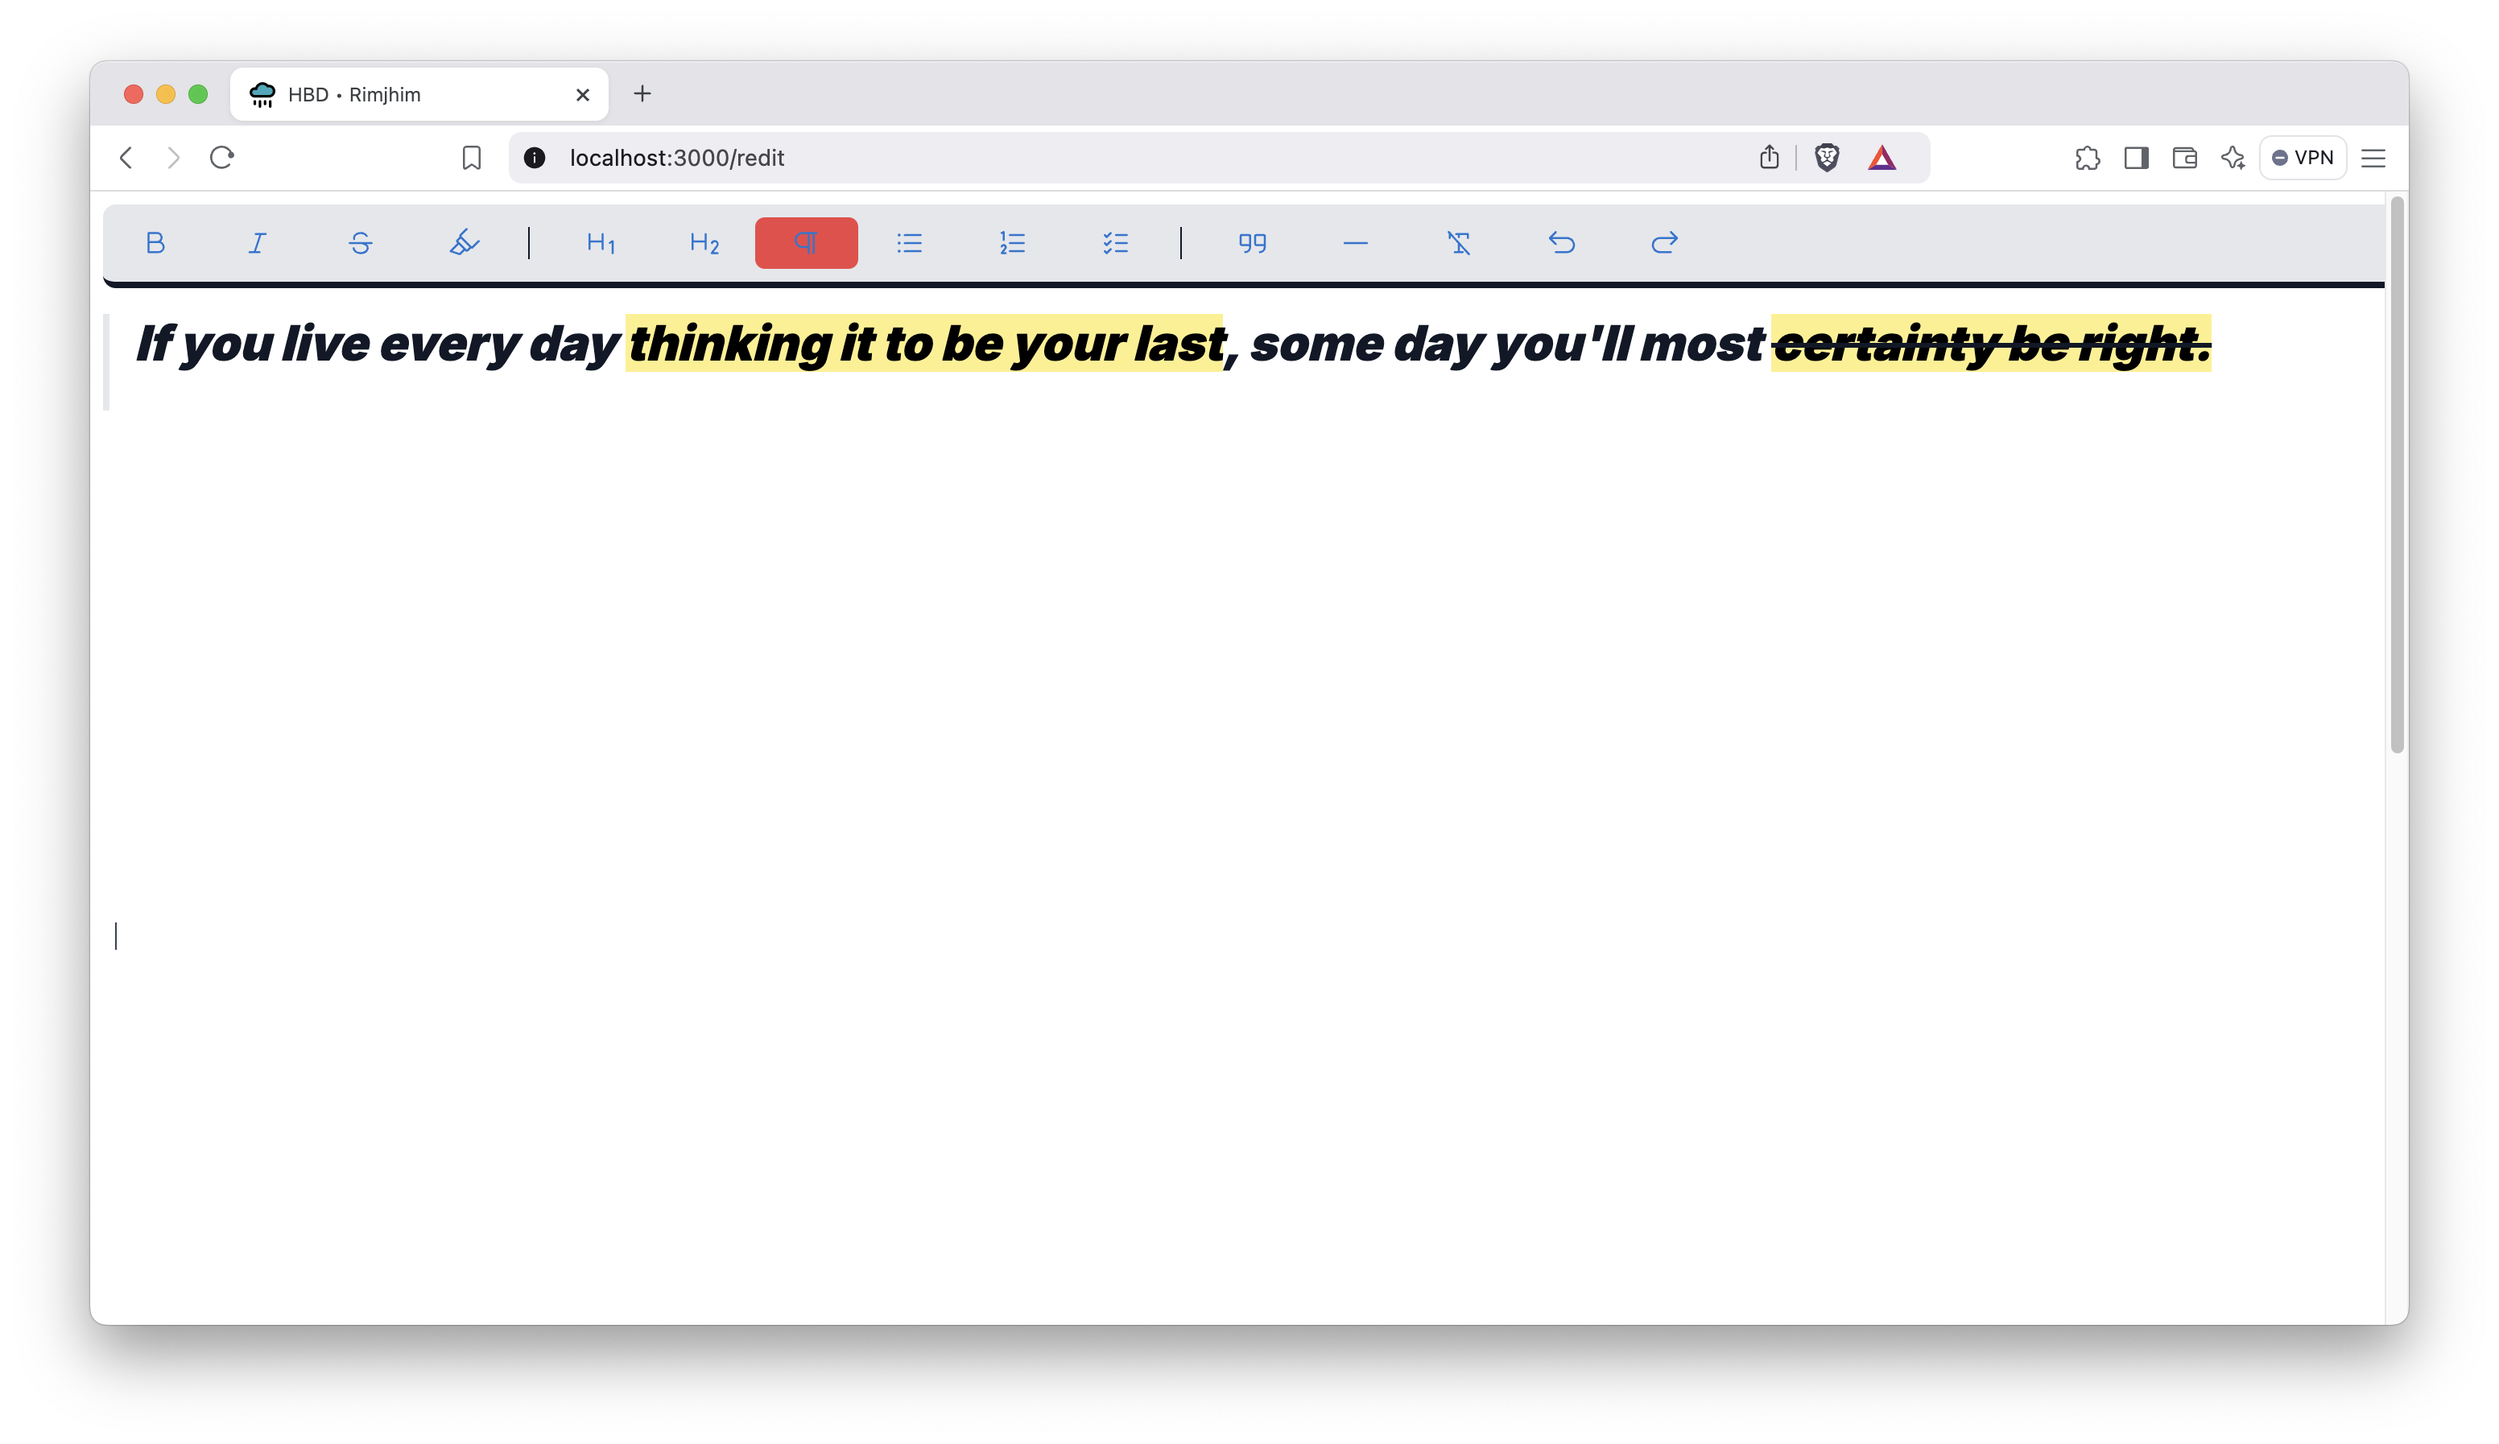
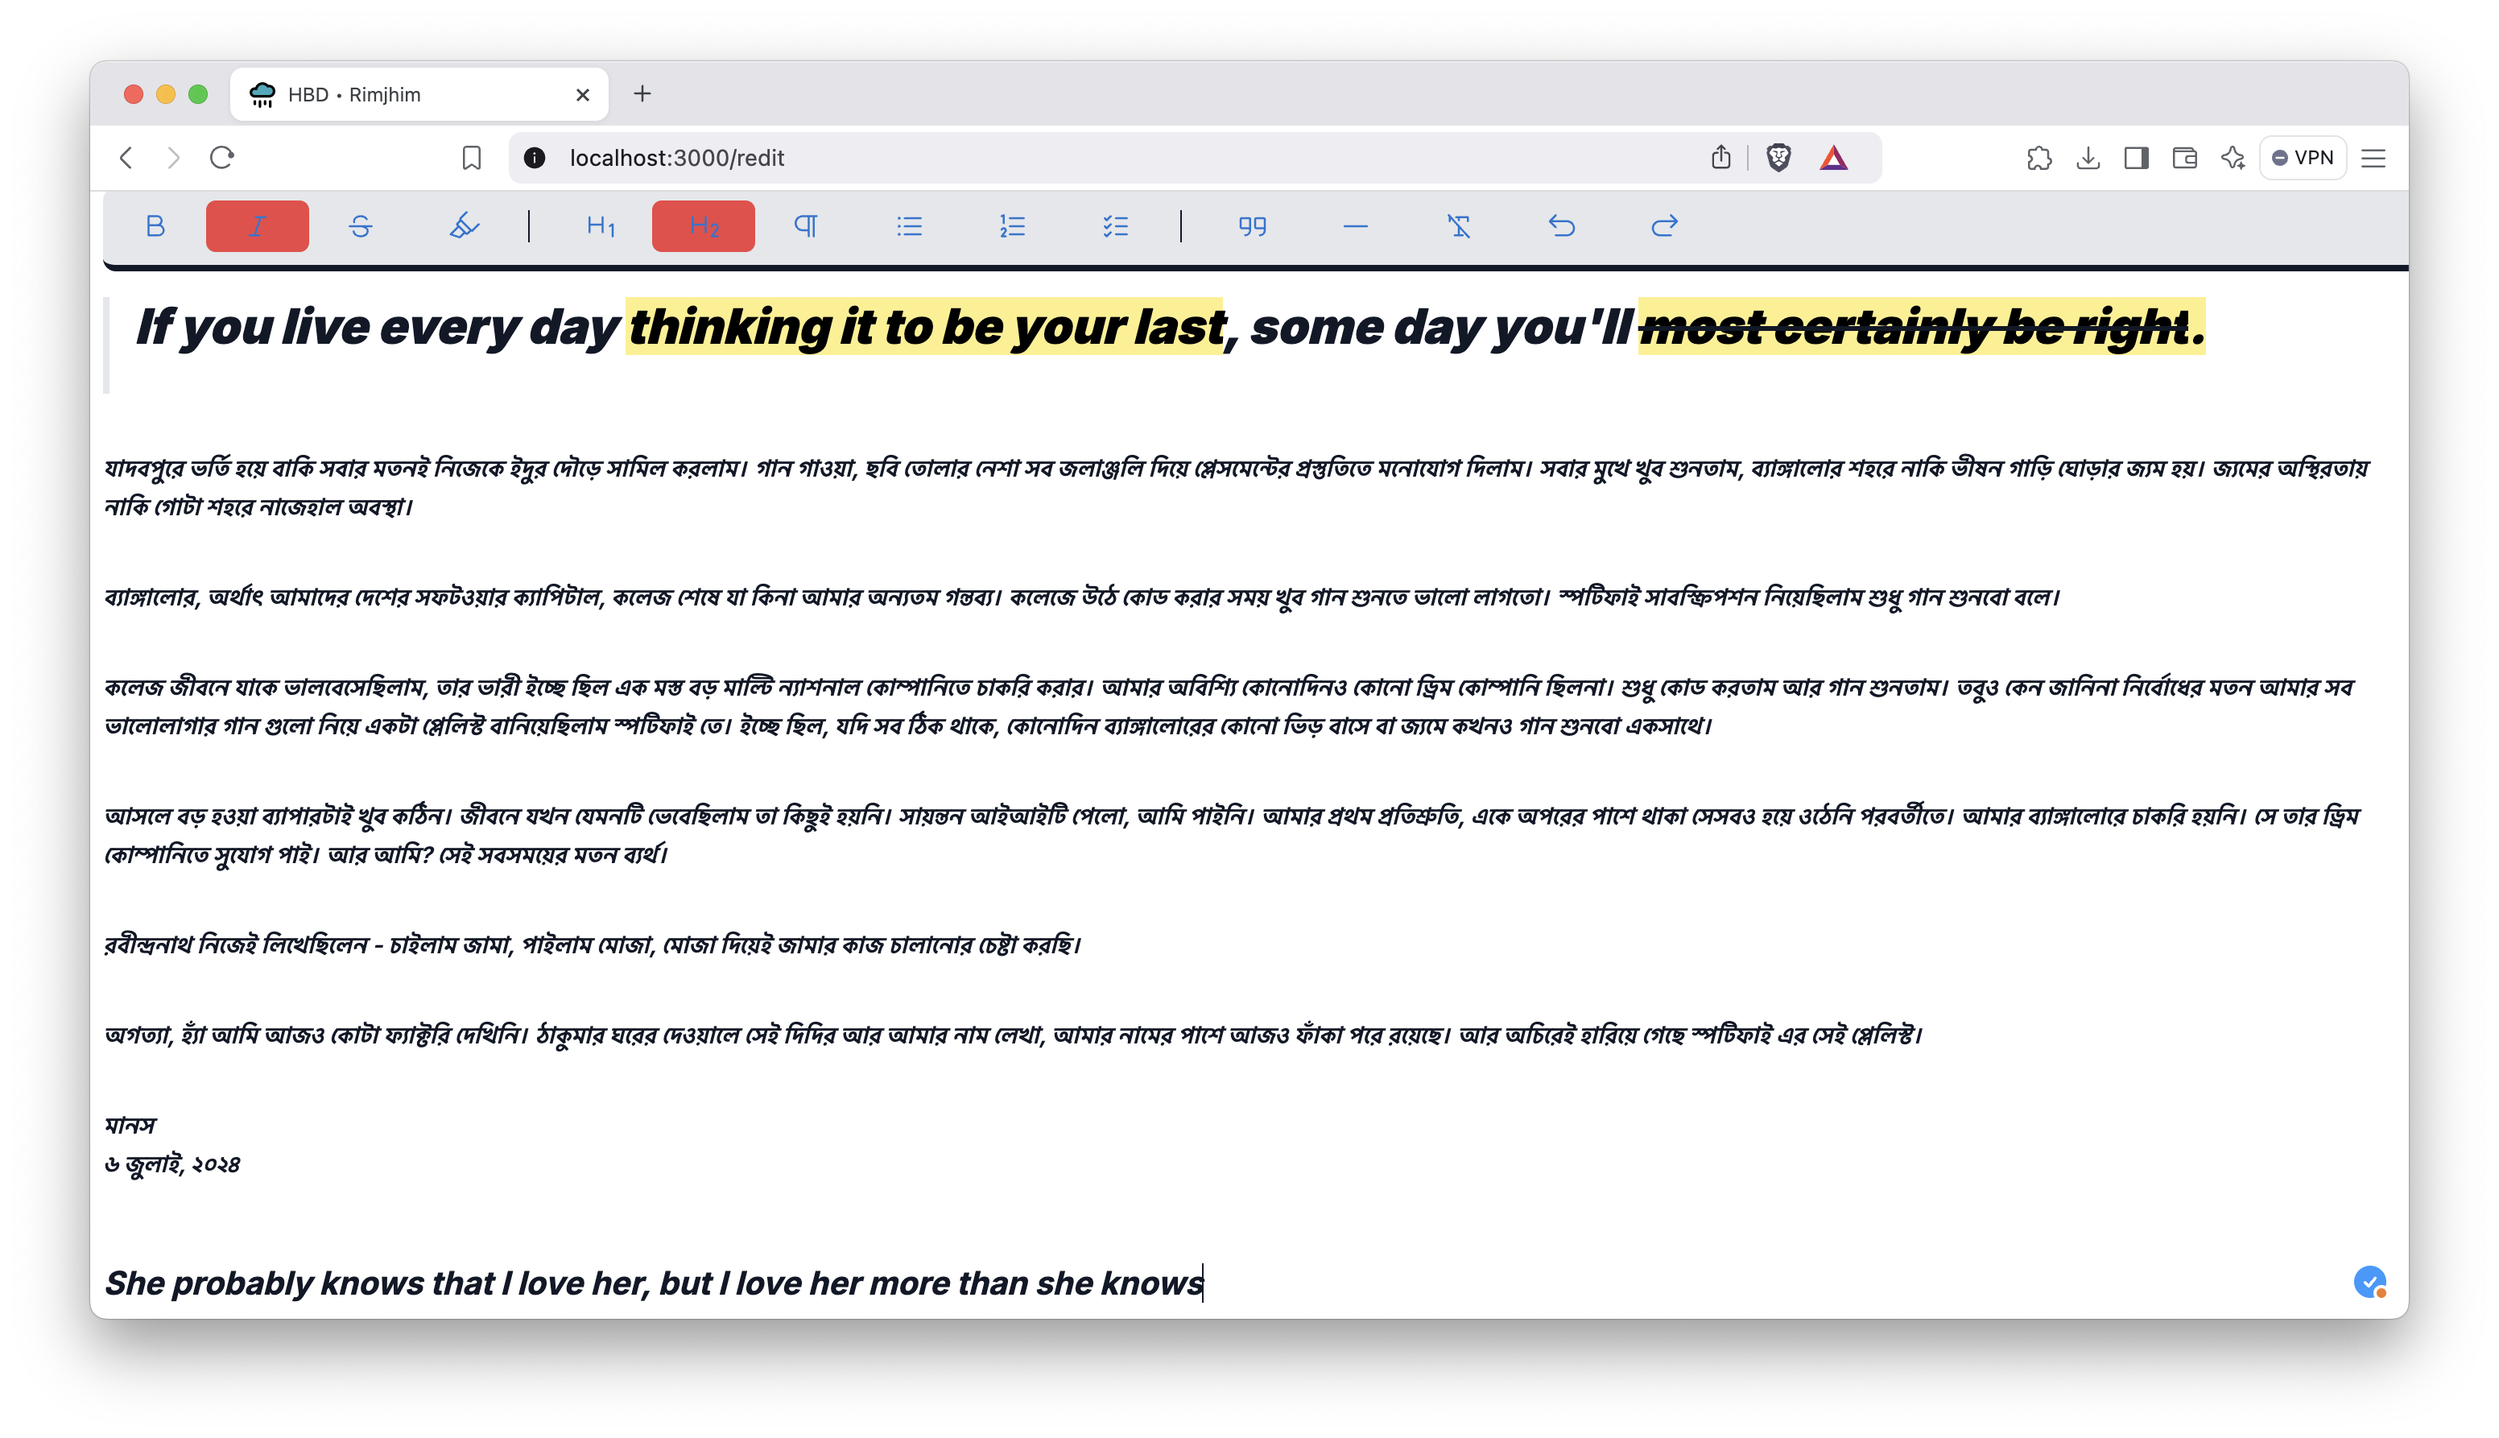
[feat]: default muse in redit editor

diff --git a/apps/web/src/constants/redit.html b/apps/web/src/constants/redit.html
@@ -1,0 +1,81 @@
+<blockquote>
+  <h1>
+    <strong
+      ><em
+        >If you live every day
+        <mark class="bg-yellow-200">thinking it to be your last</mark>, some day
+        you'll <s><mark class="bg-yellow-200">most certainly be right</mark></s
+        ><mark class="bg-yellow-200">.</mark></em
+      ></strong
+    >
+  </h1>
+</blockquote>
+<p>
+  <strong
+    ><em
+      >যাদবপুরে ভর্তি হয়ে বাকি সবার মতনই নিজেকে ইদুর দৌড়ে সামিল করলাম। গান
+      গাওয়া, ছবি তোলার নেশা সব জলাঞ্জলি দিয়ে প্লেসমেন্টের প্রস্তুতিতে মনোযোগ
+      দিলাম। সবার মুখে খুব শুনতাম, ব্যাঙ্গালোর শহরে নাকি ভীষন গাড়ি ঘোড়ার জ্যম
+      হয়। জ্যমের অস্থিরতায় নাকি গোটা শহরে নাজেহাল অবস্থা।</em
+    ></strong
+  >
+</p>
+<p>
+  <strong
+    ><em
+      >ব্যাঙ্গালোর, অর্থাৎ আমাদের দেশের সফটওয়ার ক্যাপিটাল, কলেজ শেষে যা কিনা
+      আমার অন্যতম গন্তব্য। কলেজে উঠে কোড করার সময় খুব গান শুনতে ভালো লাগতো।
+      স্পটিফাই সাবস্ক্রিপশন নিয়েছিলাম শুধু গান শুনবো বলে।</em
+    ></strong
+  >
+</p>
+<p>
+  <strong
+    ><em
+      >কলেজ জীবনে যাকে ভালবেসেছিলাম, তার ভারী ইচ্ছে ছিল এক মস্ত বড় মাল্টি
+      ন্যাশনাল কোম্পানিতে চাকরি করার। আমার অবিশ্যি কোনোদিনও কোনো ড্রিম কোম্পানি
+      ছিলনা। শুধু কোড করতাম আর গান শুনতাম। তবুও কেন জানিনা নির্বোধের মতন আমার সব
+      ভালোলাগার গান গুলো নিয়ে একটা প্লেলিস্ট বানিয়েছিলাম স্পটিফাই তে। ইচ্ছে
+      ছিল, যদি সব ঠিক থাকে, কোনোদিন ব্যাঙ্গালোরের কোনো ভিড় বাসে বা জ্যমে কখনও
+      গান শুনবো একসাথে।</em
+    ></strong
+  >
+</p>
+<p>
+  <strong
+    ><em
+      >আসলে বড় হওয়া ব্যাপারটাই খুব কঠিন। জীবনে যখন যেমনটি ভেবেছিলাম তা কিছুই
+      হয়নি। সায়ন্তন আইআইটি পেলো, আমি পাইনি। আমার প্রথম প্রতিশ্রুতি, একে অপরের
+      পাশে থাকা সেসবও হয়ে ওঠেনি পরবর্তীতে। আমার ব্যাঙ্গালোরে চাকরি হয়নি। সে
+      তার ড্রিম কোম্পানিতে সুযোগ পাই। আর আমি? সেই সবসময়ের মতন ব্যর্থ।</em
+    ></strong
+  >
+</p>
+<p>
+  <strong
+    ><em
+      >রবীন্দ্রনাথ নিজেই লিখেছিলেন - চাইলাম জামা, পাইলাম মোজা, মোজা দিয়েই জামার
+      কাজ চালানোর চেষ্টা করছি।</em
+    ></strong
+  >
+</p>
+<p>
+  <strong
+    ><em
+      >অগত্যা, হ্যাঁ আমি আজও কোটা ফ্যাক্টরি দেখিনি। ঠাকুমার ঘরের দেওয়ালে সেই
+      দিদির আর আমার নাম লেখা, আমার নামের পাশে আজও ফাঁকা পরে রয়েছে। আর অচিরেই
+      হারিয়ে গেছে স্পটিফাই এর সেই প্লেলিস্ট।</em
+    ></strong
+  >
+</p>
+<p>
+  <strong
+    ><em>মানস<br />৬ জুলাই, ২০২৪</em></strong
+  >
+</p>
+<h2>
+  <em
+    >She probably knows that I love her, but I love her more than she knows
+    &nbsp;</em
+  >
+</h2>

diff --git a/apps/web/src/components/RPMenuBar.tsx b/apps/web/src/components/RPMenuBar.tsx
@@ -1,7 +1,11 @@
+"use client";
+
 import { RPMenuItems } from "@/components";
 import {
+  ArrowsClockwise,
   ArrowUUpLeft,
   ArrowUUpRight,
+  ClipboardText,
   Highlighter,
   ListBullets,
   ListChecks,
@@ -17,9 +21,12 @@ import {
   TextTSlash,
 } from "@phosphor-icons/react/dist/ssr";
 import type { Editor } from "@tiptap/react";
+import { useState } from "react";
 import { v4 as uuidv4 } from "uuid";
 
 export const RPMenuBar = ({ editor }: { editor: Editor }) => {
+  const [showCopiedTooltip, setShowCopiedTooltip] = useState<boolean>(false);
+
   const listOfIcons = [
     [
       {
@@ -111,6 +118,22 @@ export const RPMenuBar = ({ editor }: { editor: Editor }) => {
         Icon: ArrowUUpRight,
         title: "Redo",
         action: () => editor.chain().focus().redo().run(),
+      },
+    ],
+    [
+      {
+        Icon: ClipboardText,
+        title: showCopiedTooltip ? "Copied!" : "Copy Text",
+        action: async () => {
+          await navigator.clipboard.writeText(editor.getText());
+          setShowCopiedTooltip(true);
+          setTimeout(() => setShowCopiedTooltip(false), 2000);
+        },
+      },
+      {
+        Icon: ArrowsClockwise,
+        title: "Reset",
+        action: () => editor.commands.setContent(""),
       },
     ],
   ];

diff --git a/apps/web/src/components/RPEditor.tsx b/apps/web/src/components/RPEditor.tsx
@@ -1,6 +1,7 @@
 "use client";
 
 import { RPMenuBar } from "@/components";
+import reditJSON from "@/constants/redit.json";
 import CharacterCount from "@tiptap/extension-character-count";
 import Highlight from "@tiptap/extension-highlight";
 import TaskItem from "@tiptap/extension-task-item";
@@ -33,8 +34,8 @@ export default function RPEditor() {
   });
 
   useEffect(() => {
-    rpEditor?.commands.setContent("<h1>Welcome to RPEditor</h1>");
-  }, []);
+    rpEditor?.commands.setContent(reditJSON);
+  }, [rpEditor]);
 
   return (
     <div className="w-full">
